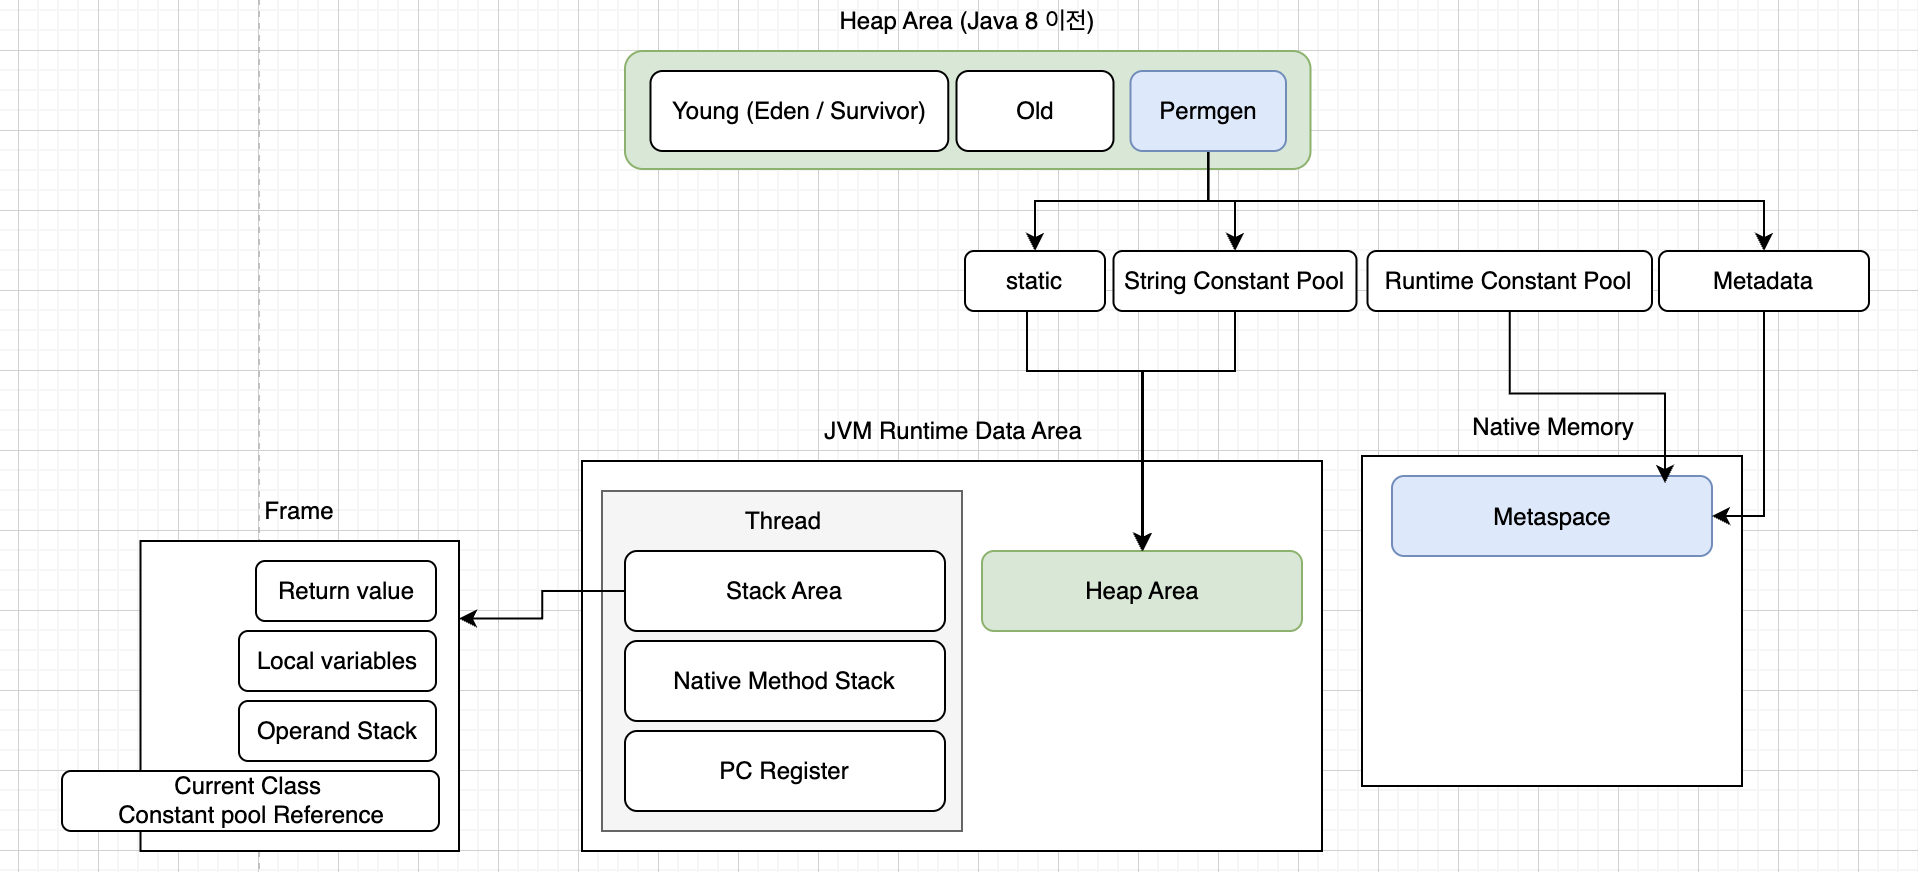
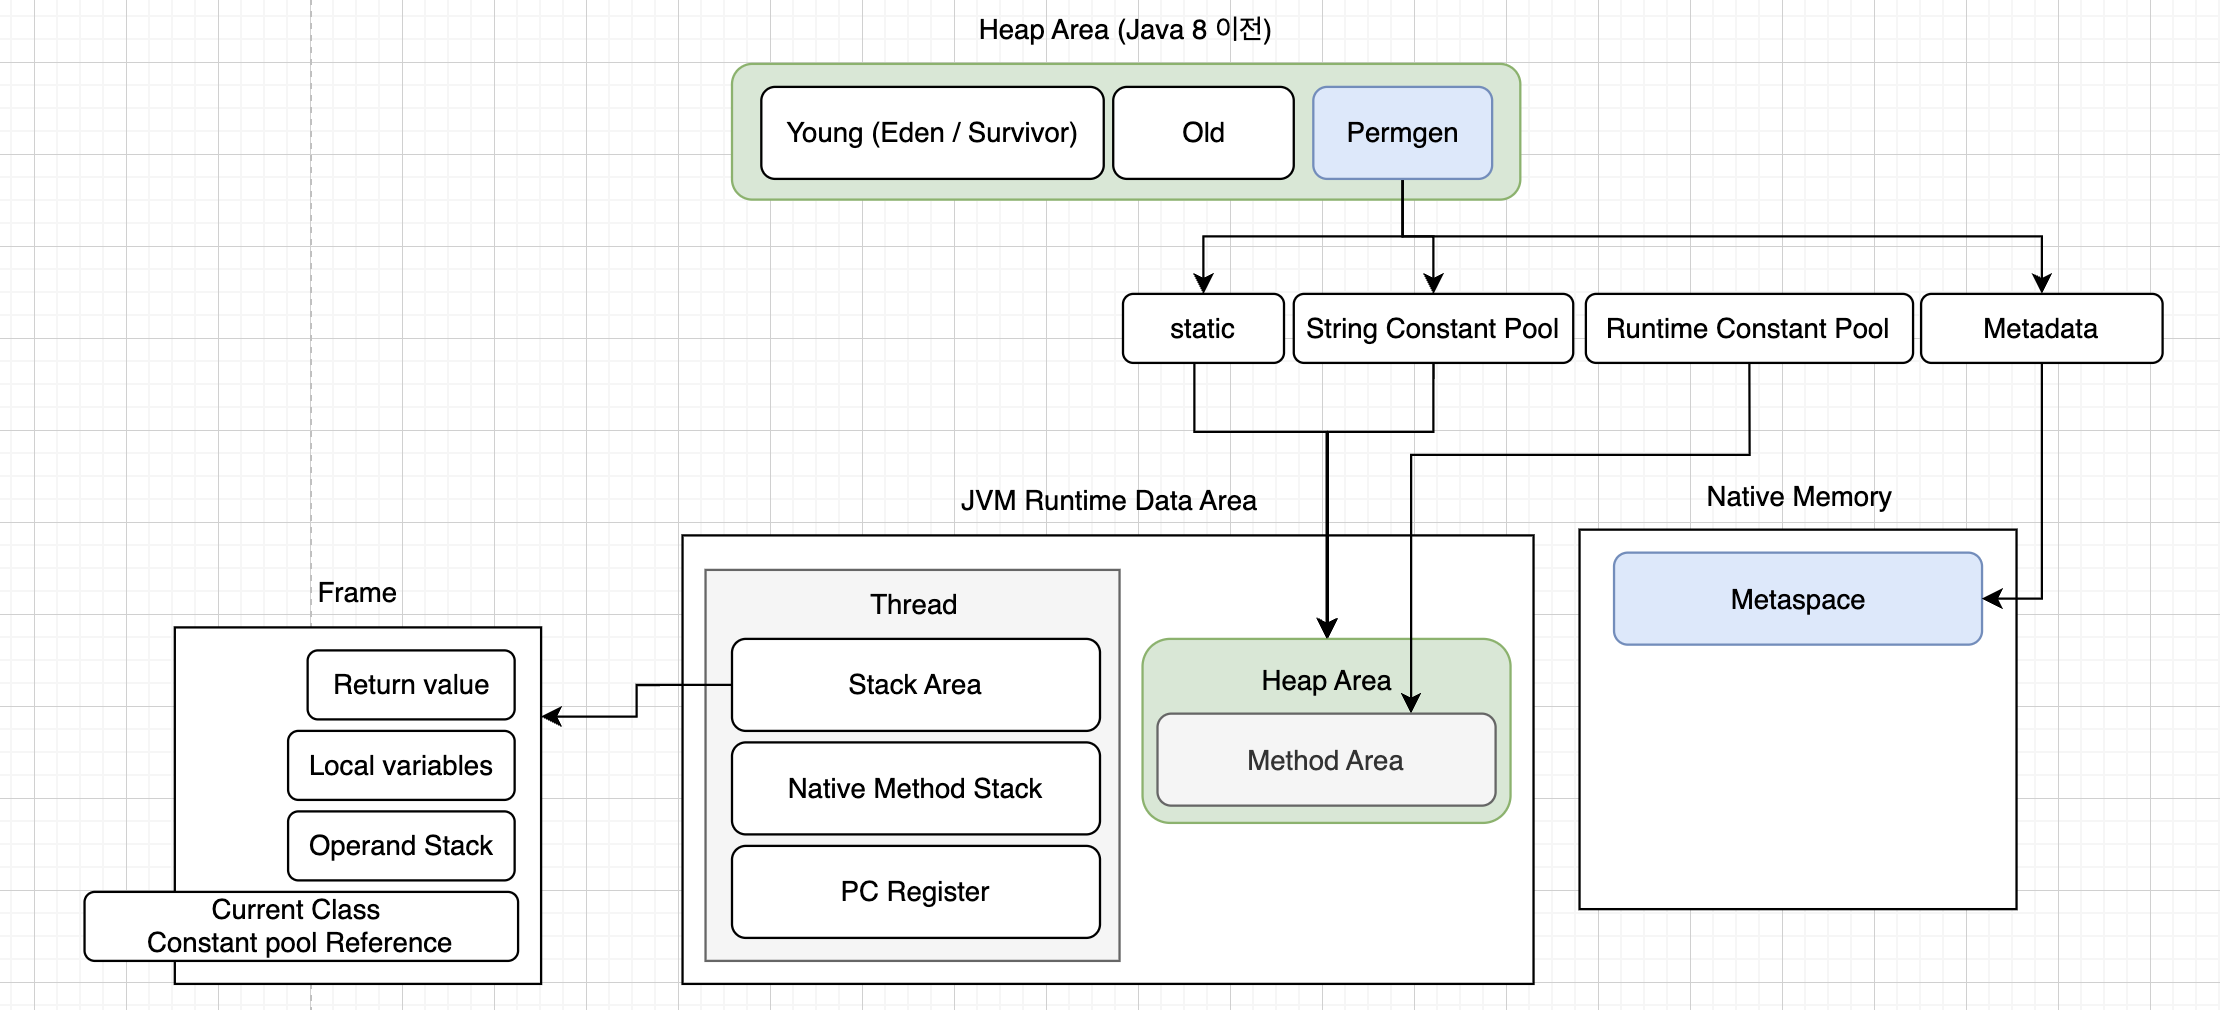
Docs: Method Area 내용 추가

diff --git a/java/jvm-metaspace.md b/java/jvm-metaspace.md
@@ -1,5 +1,7 @@
 ## JVM 동작 방식
 
+JVM: JRE 일부분으로, 프로그램 실행 중 사용되는 런타임 데이터 영역
+
 - .java 파일을 .class로 컴파일
 - Class Loader는 .class 파일을 JVM Runtime Data Area로 동적 로딩
 - Execution Engine은 Runtime Data Area에 로딩된 .class 해석 및 실행 (이 과정에서 GC 작동과 스레드의 동기화 시작)
@@ -23,15 +25,33 @@
 
 <br>
 
+### Method Area
 
-### GC
-- PermGen 영역은 GC 대상이 아니므로 static 변수가 거의 제거되지 않았지만, Java8 이후 Heap 영역으로 이동하여 제거 대상이 됨
-- Native memory는 OS가 관리하는 메모리 영역이지만, GC의 영향을 받을 수 있음 https://stackoverflow.com/questions/24074164/what-is-the-use-of-metaspace-in-java-8
-
-> 참고로 현재 default GC는 G1 GC이며, Java 21 버전에서 ZGC는 young, old 객체에 대한 별도의 Generation으로 분리해 성능을 향상시켰다고 합니다. https://openjdk.org/jeps/439
+- It stores per-class structures such as the run-time constant pool, field and method data, and the code for methods and constructors, including the special methods used in class and instance initialization and interface initialization.
+- Although the method area is **logically part of the heap**, simple implementations may choose not to either garbage collect or compact it.
+- https://docs.oracle.com/javase/specs/jvms/se8/html/jvms-2.html#jvms-2.5.4
 
 <br>
 
-### 🤔 궁금한 점
 
-- Metaspace과 별개로 Method Area 개념이 아직도 존재한다고 하는데, Method Area에서는 무엇이 관리되는지
+## GC
+- PermGen 영역은 GC 대상이 아니므로 static 변수가 거의 제거되지 않았지만, Java8 이후 Heap 영역으로 이동하여 제거 대상이 됨
+- Native memory는 OS가 관리하는 메모리 영역이지만, GC의 영향을 받을 수 있음 https://stackoverflow.com/questions/24074164/what-is-the-use-of-metaspace-in-java-8
+
+> 참고로 현재 default GC는 G1 GC이며, Java 21 버전에서 ZGC는 young, old 객체에 대한 별도의 Generation으로 분리해 성능을 향상시켰다고 합니다. https://openjdk.org/jeps/439 <br> Java 23에서 Generational ZGC가 default 되었으며, non-generational mode는 제거될 예정이라고 합니다. https://openjdk.org/jeps/474
+
+<br>
+
+### 관련 질문
+ 
+- Heap 영역이 Young / Old 영역으로 나눠지는 이유 https://d2.naver.com/helloworld/1329
+- G1 GC 동작 방식
+- Java 9부터 G1 GC가 default로 설정된 이유 https://openjdk.org/jeps/248
+
+<br>
+
+
+## 🤔 확인 필요
+
+- [ ] JVM 구조
+- [ ] Runtime Constant Pool이 Metaspace에서 관리된다는 말도 있음...
